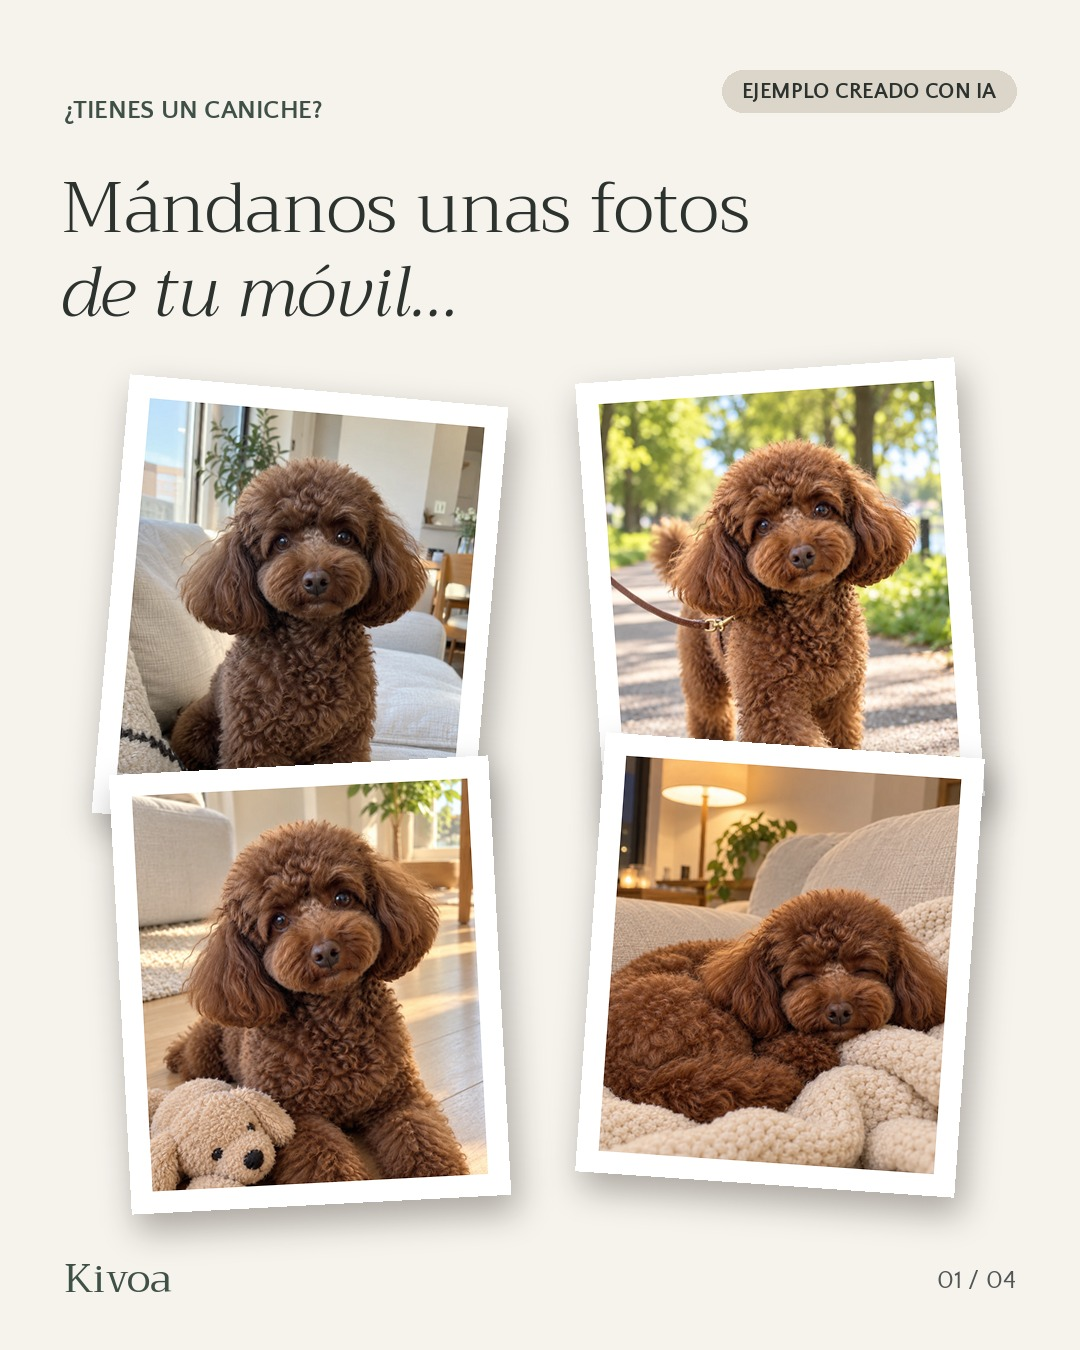
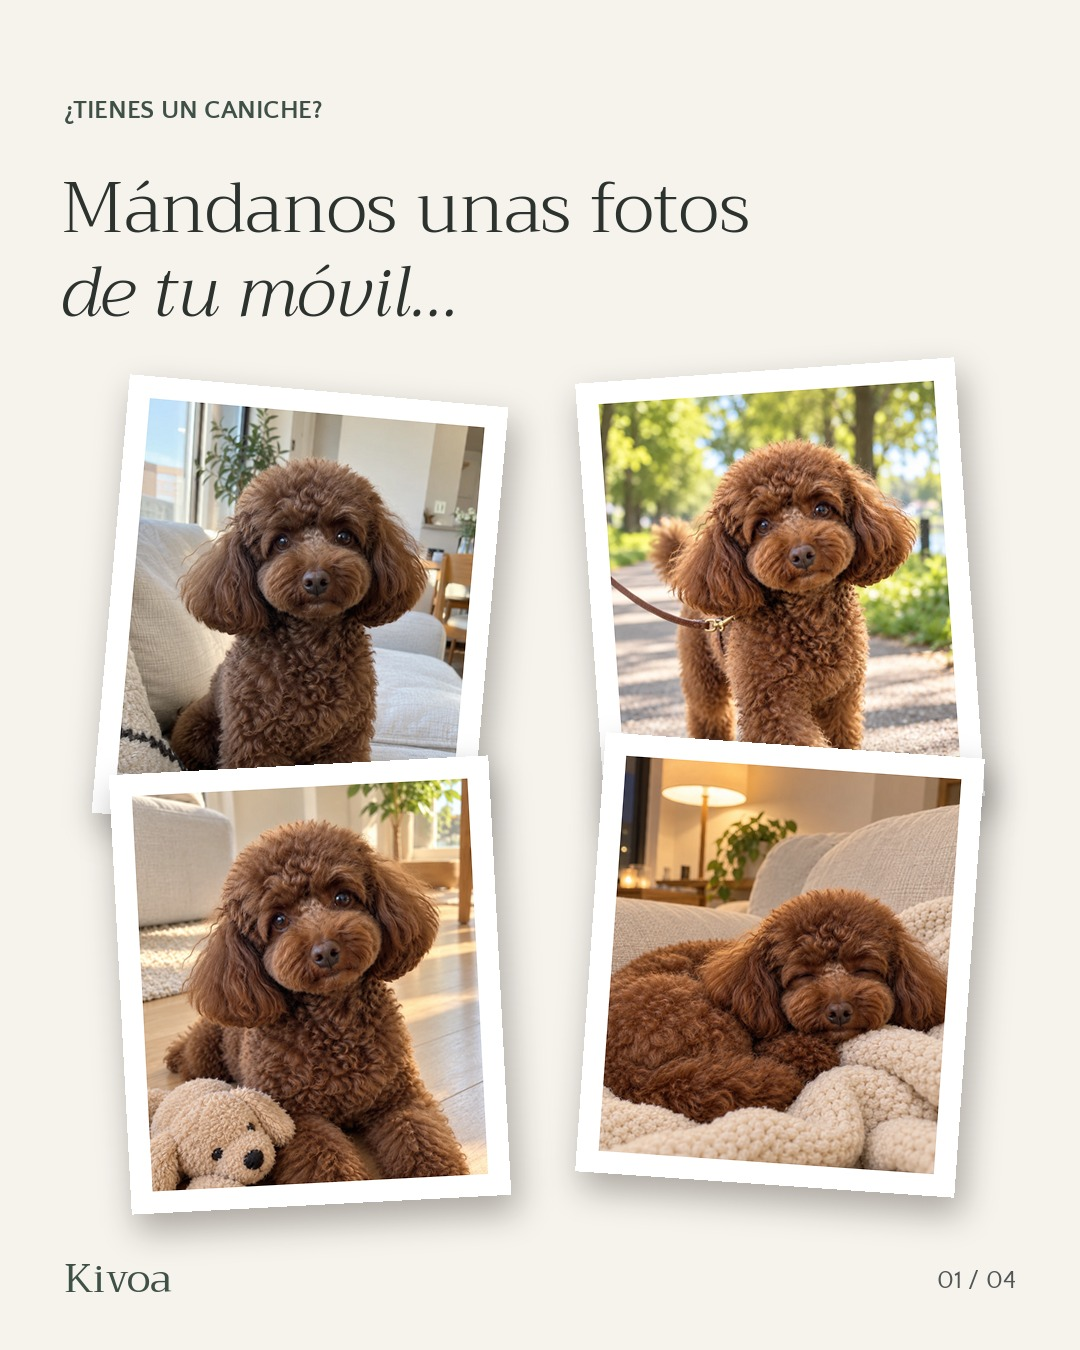
Canela: sin sello de IA en la portada (se usa la etiqueta de IA de la red y el texto)
Claude-Session: https://claude.ai/code/session_01EXxT3oYALMgVYQXs29BEaV

Changed region(s): [[0.6722, 0.0311, 0.9472, 0.0933]]

diff --git a/generador/redes/publicaciones.py b/generador/redes/publicaciones.py
@@ -899,8 +899,8 @@ def sello_ia(im, texto='EJEMPLO CREADO CON IA'):
 
 
 def publicacion_9(raza='caniche', nombre='Canela'):
-    """Ejemplo por raza: sus fotos → su retrato → en casa → Kivoa. Mascota creada con IA: sello en las fotos y
-    aviso en el texto de la publicación (y etiqueta de IA de la red social)."""
+    """Ejemplo por raza: sus fotos → su retrato → en casa → Kivoa. Mascota creada con IA: el aviso va en la
+    etiqueta de IA de la red social y en el texto de la publicación ("ejemplo de estilo creado con IA")."""
     E = lambda f: abrir(A('ejemplos-ia', nombre.lower(), f))
     ret, escena = E('retrato-lavanda-es.jpg'), abrir(A('ia', 'salon-oscuro', f'inicial-{nombre.lower()}.jpg'))
     fotos = [E('foto-principal.webp'), E('extra-parque.webp'), E('extra-juguete.webp'), E('extra-dormida.webp')]
@@ -914,7 +914,6 @@ def publicacion_9(raza='caniche', nombre='Canela'):
     cabecera(im, f'¿Tienes un {raza}?', 'Mándanos unas fotos\nde tu móvil…', 1)
     for foto, c, a in zip(fotos, [(300, 610), (780, 590), (310, 985), (780, 965)], [-5, 4, 3, -4]):
         polaroid(im, foto, c, 380, a, foco=(.5, .4, 1.1))
-    sello_ia(im)
     diapos.append(im)
 
     # 2 · Su retrato
